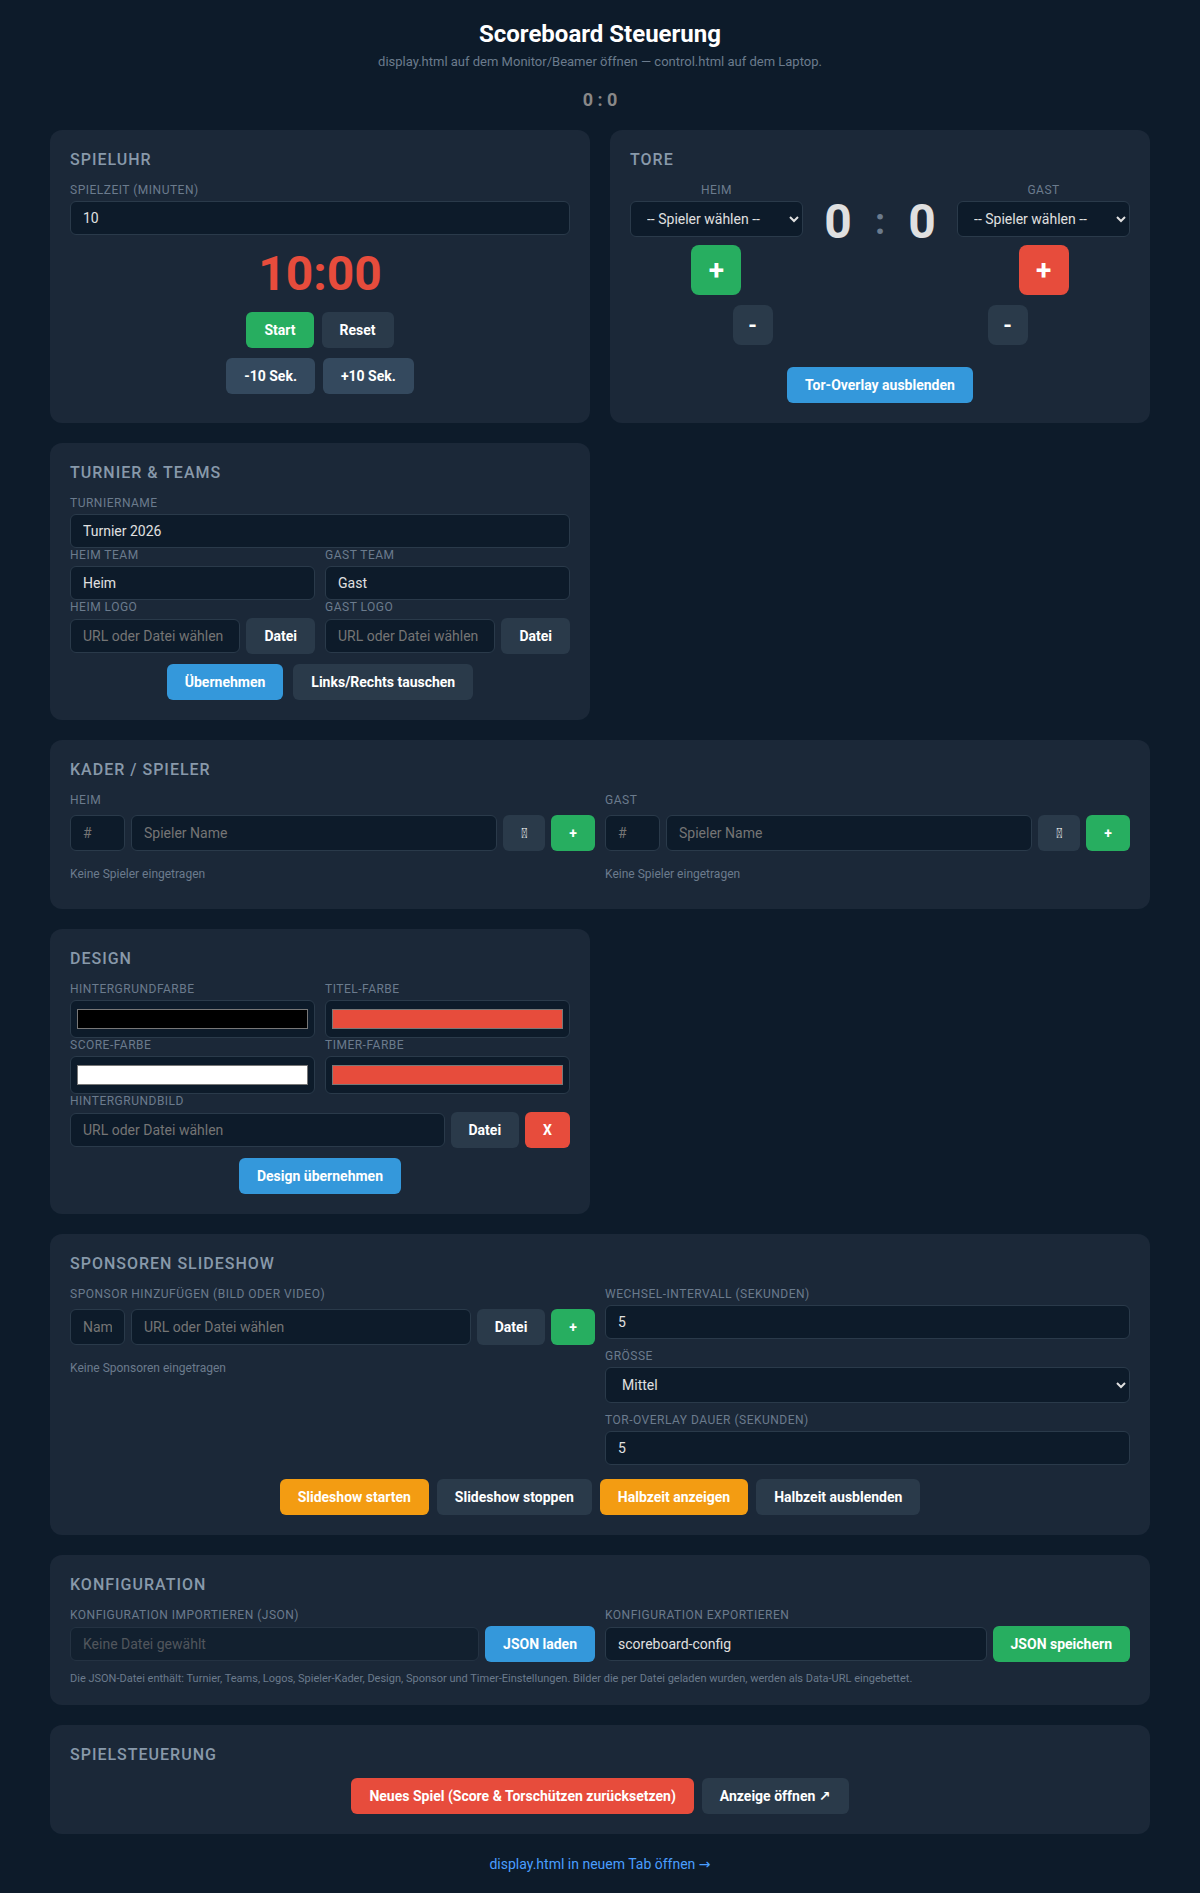
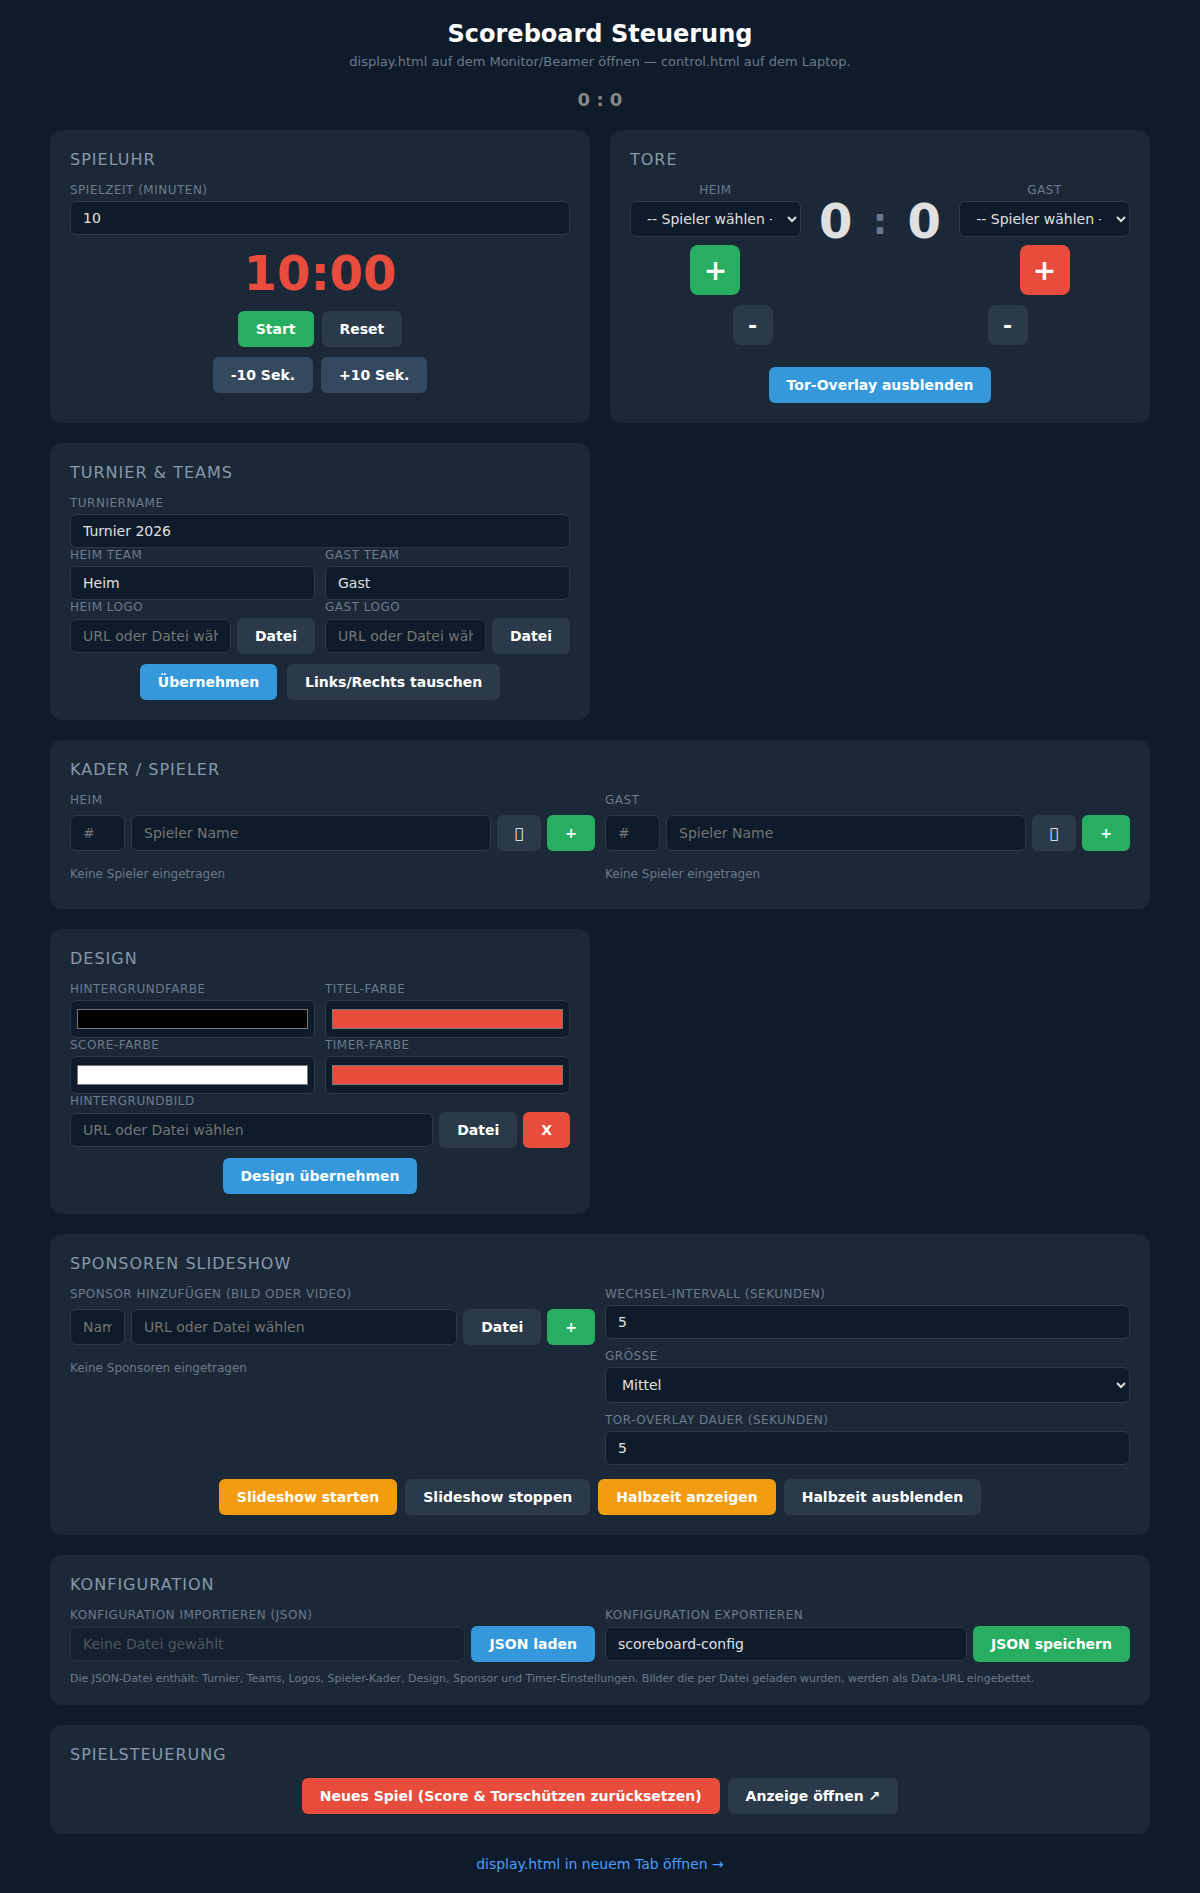
Remove Google Fonts for DSGVO compliance
Replace external Google Fonts (Bebas Neue, Roboto) with system font
stacks to avoid third-party requests and DSGVO/privacy concerns.
Regenerate screenshots with the updated fonts.

diff --git a/display.html b/display.html
@@ -5,15 +5,13 @@
     <meta name="viewport" content="width=device-width, initial-scale=1.0">
     <title>Scoreboard Anzeige</title>
     <style>
-        @import url('https://fonts.googleapis.com/css2?family=Bebas+Neue&family=Roboto:wght@700;900&display=swap');
-
         * { margin: 0; padding: 0; box-sizing: border-box; }
 
         body {
             width: 100vw;
             height: 100vh;
             overflow: hidden;
-            font-family: 'Roboto', Arial, sans-serif;
+            font-family: Arial, 'Helvetica Neue', Helvetica, sans-serif;
             background: #000;
             color: #fff;
             position: relative;
@@ -39,7 +37,9 @@
 
         /* Tournament Title */
         #tournament-title {
-            font-family: 'Bebas Neue', sans-serif;
+            font-family: 'Arial Black', 'Arial Bold', Arial, sans-serif;
+            text-transform: uppercase;
+            letter-spacing: 0.05em;
             font-size: 5vw;
             text-align: center;
             padding-top: 1vh;
@@ -88,7 +88,9 @@
         }
 
         .team-score {
-            font-family: 'Bebas Neue', sans-serif;
+            font-family: 'Arial Black', 'Arial Bold', Arial, sans-serif;
+            text-transform: uppercase;
+            letter-spacing: 0.05em;
             font-size: 16vw;
             line-height: 1;
             text-shadow: 3px 3px 8px rgba(0,0,0,0.9);
@@ -103,14 +105,18 @@
         }
 
         #timer {
-            font-family: 'Bebas Neue', sans-serif;
+            font-family: 'Arial Black', 'Arial Bold', Arial, sans-serif;
+            text-transform: uppercase;
+            letter-spacing: 0.05em;
             font-size: 8vw;
             color: #e74c3c;
             text-shadow: 2px 2px 8px rgba(0,0,0,0.9);
         }
 
         #colon {
-            font-family: 'Bebas Neue', sans-serif;
+            font-family: 'Arial Black', 'Arial Bold', Arial, sans-serif;
+            text-transform: uppercase;
+            letter-spacing: 0.05em;
             font-size: 12vw;
             line-height: 1;
             text-shadow: 3px 3px 8px rgba(0,0,0,0.9);
@@ -166,7 +172,9 @@
         }
 
         #goal-content .goal-text {
-            font-family: 'Bebas Neue', sans-serif;
+            font-family: 'Arial Black', 'Arial Bold', Arial, sans-serif;
+            text-transform: uppercase;
+            letter-spacing: 0.05em;
             font-size: 12vw;
             color: #e74c3c;
             text-shadow: 3px 3px 10px rgba(231,76,60,0.5);
@@ -181,7 +189,9 @@
         }
 
         #goal-content .goal-scorer-number {
-            font-family: 'Bebas Neue', sans-serif;
+            font-family: 'Arial Black', 'Arial Bold', Arial, sans-serif;
+            text-transform: uppercase;
+            letter-spacing: 0.05em;
             font-size: 8vw;
             color: #e74c3c;
             margin-top: 1vh;
@@ -313,7 +323,9 @@
         }
 
         #halftime-overlay .halftime-text {
-            font-family: 'Bebas Neue', sans-serif;
+            font-family: 'Arial Black', 'Arial Bold', Arial, sans-serif;
+            text-transform: uppercase;
+            letter-spacing: 0.05em;
             font-size: 8vw;
             color: #f39c12;
             text-shadow: 2px 2px 8px rgba(0,0,0,0.9);

diff --git a/control.html b/control.html
@@ -5,12 +5,10 @@
     <meta name="viewport" content="width=device-width, initial-scale=1.0">
     <title>Scoreboard Steuerung</title>
     <style>
-        @import url('https://fonts.googleapis.com/css2?family=Roboto:wght@400;500;700&display=swap');
-
         * { margin: 0; padding: 0; box-sizing: border-box; }
 
         body {
-            font-family: 'Roboto', Arial, sans-serif;
+            font-family: Arial, 'Helvetica Neue', Helvetica, sans-serif;
             background: #0d1b2a;
             color: #e0e0e0;
             min-height: 100vh;

diff --git a/README.md b/README.md
@@ -82,7 +82,7 @@ In the **Configuration** section of the control panel, the current state can be 
 ### Technology
 
 - Vanilla HTML, CSS, JavaScript
-- No external dependencies (except Google Fonts)
+- No external dependencies
 - Communication between control panel and display via the [BroadcastChannel API](https://developer.mozilla.org/en-US/docs/Web/API/BroadcastChannel)
 
 ---
@@ -165,5 +165,5 @@ scoreboard/
 ### Technologie
 
 - Vanilla HTML, CSS, JavaScript
-- Keine externen Abhängigkeiten (außer Google Fonts)
+- Keine externen Abhängigkeiten
 - Kommunikation zwischen Steuerung und Anzeige über die [BroadcastChannel API](https://developer.mozilla.org/en-US/docs/Web/API/BroadcastChannel)
